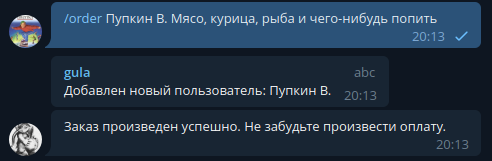
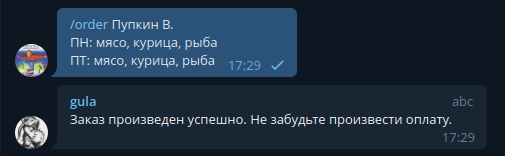
хелп и мелкоправки по доке

diff --git a/main.py b/main.py
@@ -63,6 +63,19 @@ def food_ordering(message: Message):
         bot.send_message(message.chat.id, 'Возникли проблемы при заполнении таблицы.')
 
 
+@bot.message_handler(commands=['help'])
+def get_help(message: Message):
+    bot.send_message(message.chat.id, parse_mode='HTML', text=f'Как сделать заказ:\n'
+                                                              '<pre>'
+                                                              '/order Пупкин В.\n'
+                                                              'ПН: мясо, курица, рыба\n'
+                                                              'ЧТ: суп, второе, салат'
+                                                              '</pre>'
+                                                              'Я и автоматически запишу заказ в таблицу:')
+    with open('src/help.jpg', 'rb') as photo:
+        bot.send_photo(message.chat.id, photo)
+
+
 @bot.message_handler(content_types=['text'])
 def food_is_comming(message: Message):
     """Хэндлер фраз-крючков, по нахождению которых - желаем приятного аппетита"""

diff --git a/README.MD b/README.MD
@@ -26,8 +26,13 @@ TODO
 
 <hr>
 
-- **`/order $NAME $ORDER` - где `$NAME` имя в формате `Пупкин В.`, а `$ORDER` заказ в формате строки.**
+```
+/order $NAME
+ПН: мясо, курица, рыба
+ПТ: мясо, курица, рыба
+```
 
-![](src/readme/order.png)
+- **где `$NAME` имя в формате `Пупкин В.`. В начале каждой строки обязательно должна быть аббревиатура дня недели.**
 
+![img.png](src/readme/order.png)
 <hr>
